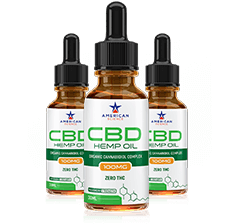
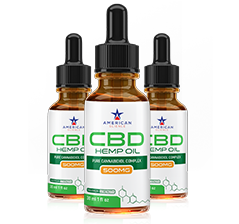
sprite replace with actual images

Changed region(s): [[0.1757, 0.0, 0.7908, 1.0]]

diff --git a/react/components/promo/mobile/PromoSectionThreeMobile.js b/react/components/promo/mobile/PromoSectionThreeMobile.js
@@ -8,7 +8,9 @@ class PromoSectionThreeMobile extends React.PureComponent {
           <span>WHY AMERICAN SCIENCE HEMP OIL </span>
           <br />Triple Filtration Technology For High Potency
         </p>{' '}
-        <i className="s2-img sprite1 sprite-s3-img" />
+        {/*<i className="s2-img sprite1 sprite-s3-img" />*/}
+        <img src="/static/promo/mobile/images/s3-img.jpg"
+             className="s2-img" alt="" />
         <p className="s2-txt1">
           <strong>American Science Hemp Oil</strong> is made with the purest
           hemp extract at a certified facility to meet and exceed industry

diff --git a/react/components/promo/mobile/PromoSectionTwoMobile.js b/react/components/promo/mobile/PromoSectionTwoMobile.js
@@ -8,7 +8,11 @@ class PromoSectionTwoMobile extends React.PureComponent {
           <span>AMERICAN SCIENCE HEMP OIL </span>
           <br />Enriched with Cannabidiol Extract (CBD)
         </p>
-        <i className="s2-img sprite1 sprite-s2-img" />
+
+        {/*<i className="s2-img sprite1 sprite-s2-img" />*/}
+        <img src="/static/promo/mobile/images/s2-img.jpg"
+             className="s2-img" alt="" />
+
         <p className="s2-txt1">
           Cannabidiol is a non-psychoactive component of Hemp that has been
           clinically proven to offer a wide range of therapeutic health

diff --git a/react/components/promo/desktop/PromoSectionSevenDesktop.js b/react/components/promo/desktop/PromoSectionSevenDesktop.js
@@ -29,7 +29,9 @@ class PromoSectionSevenDesktop extends React.PureComponent {
             </li>
           </ul>
           <div className="clearall" />
-          <i className="s7bottle sprite4 sprite-s7-bottle" />
+          {/*<i className="s7bottle sprite4 sprite-s7-bottle" />*/}
+          <img src="/static/promo/desktop/images/s7-bottle.png"
+               className="s7bottle" alt="" />
           <i className="s7-photos sprite4 sprite-s7-photos" />
           <a href="javascript:bookmarkscroll.scrollTo('topfrm')">
             <i className="s7btn pulse sprite5 sprite-submit" />

diff --git a/react/components/promo/desktop/PromoSectionOneDesktop.js b/react/components/promo/desktop/PromoSectionOneDesktop.js
@@ -42,7 +42,9 @@ class PromoSectionOneDesktop extends React.PureComponent {
             </ul>
             <div className="clearall" />
             <i className="chkarrow sprite3 sprite-s1arrow" />
-            <i className="s1bottle sprite3 sprite-s1bottle" />
+            {/*<i className="s1bottle sprite3 sprite-s1bottle" />*/}
+            <img src="/static/promo/desktop/images/s1bottle.png"
+                 className="s1bottle" alt="" />
             <i className="s1asseen sprite2 sprite-s1asseen" />
           </div>
           <div className="s1rgt">

diff --git a/react/components/promo/desktop/PromoSectionFourDesktop.js b/react/components/promo/desktop/PromoSectionFourDesktop.js
@@ -63,7 +63,9 @@ class PromoSectionFourDesktop extends React.PureComponent {
               All-Natural, Organic &amp; High Potency Cannabidiol Blend
             </p>
           </div>{' '}
-          <i className="s4-bottle sprite4 sprite-s4-bottle" />{' '}
+          {/*<i className="s4-bottle sprite4 sprite-s4-bottle" />{' '}*/}
+          <img src="/static/promo/desktop/images/s4-bottle.png"
+               className="s4-bottle" alt="" />
         </div>
       </div>
     );

diff --git a/react/components/promo/desktop/PromoSectionTwoDesktop.js b/react/components/promo/desktop/PromoSectionTwoDesktop.js
@@ -71,7 +71,9 @@ class PromoSectionTwoDesktop extends React.PureComponent {
               <i className="s5limg2 sprite4 sprite-s2line" />{' '}
             </li>
           </ul>{' '}
-          <i className="s2bottle sprite3 sprite-s2bottle" />{' '}
+          {/*<i className="s2bottle sprite3 sprite-s2bottle" />{' '}*/}
+          <img src="/static/promo/desktop/images/s2bottle.png"
+               className="s2bottle" alt="" />
         </div>
       </div>
     );

diff --git a/react/components/promo/mobile/PromoSectionSevenMobile.js b/react/components/promo/mobile/PromoSectionSevenMobile.js
@@ -31,7 +31,9 @@ class PromoSectionSevenMobile extends React.PureComponent {
         </ul>
         <p className="clearall" />{' '}
         <i className="s7-photos sprite3 sprite-s7-photos" />{' '}
-        <i className="s1-bottle sprite3 sprite-s1-bottle" />
+        {/*<i className="s1-bottle sprite3 sprite-s1-bottle" />*/}
+        <img src="/static/promo/mobile/images/s1-bottle.png"
+             className="s1-bottle" alt="" />
       </div>
     );
   }

diff --git a/react/components/promo/mobile/PromoSectionOneMobile.js b/react/components/promo/mobile/PromoSectionOneMobile.js
@@ -36,7 +36,9 @@ class PromoSectionOneMobile extends React.PureComponent {
         </ul>
         <p className="clearall" />{' '}
         <i className="as-seen sprite1 sprite-as-seen" />
-        <i className="s1-bottle sprite3 sprite-s1-bottle" />
+        {/*<i className="s1-bottle sprite3 sprite-s1-bottle" />*/}
+        <img src="/static/promo/mobile/images/s1-bottle.png"
+             className="s1-bottle" alt="" />
       </div>
     );
   }
